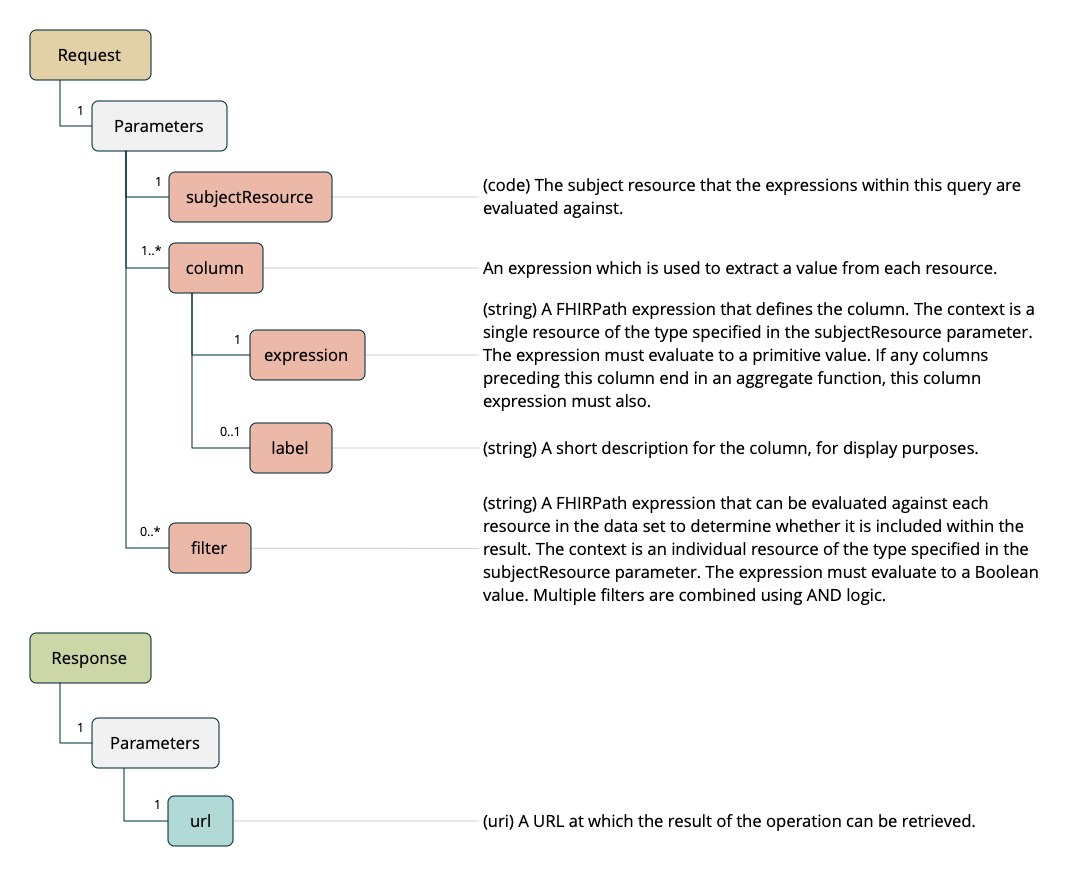
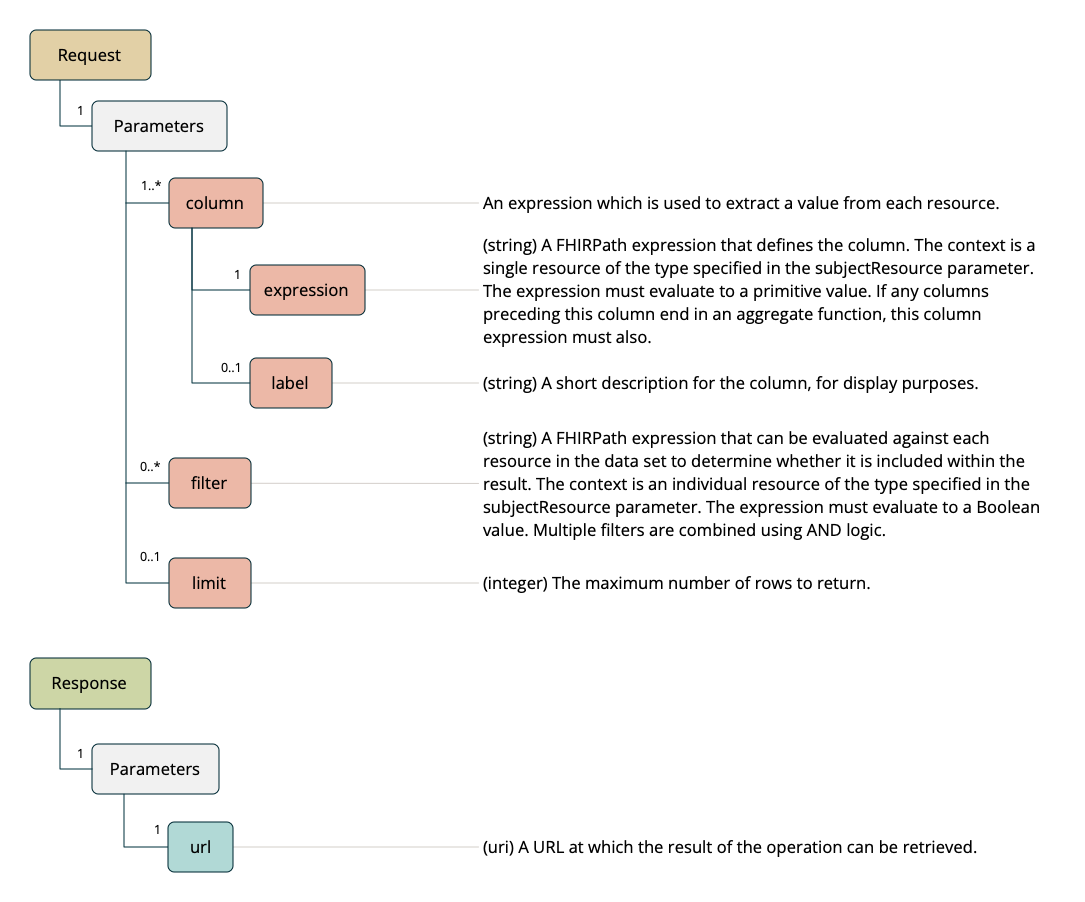
Add limit parameter to extract documentation

diff --git a/site/docs/operations/extract.md b/site/docs/operations/extract.md
@@ -50,11 +50,12 @@ resource. The following parameters are supported:
   the result. The context is a single resource of the subject resource type. 
   The expression must return a 
   [materializable type](./fhirpath/data-types.html#materializable-types). 
-- `filter [0..*]` - (string) A FHIRPath expression that can be evaluated against 
-  each resource in the data set to determine whether it is included within the 
-  result. The context is an individual resource of the subject resource type. 
-  The expression must evaluate to a Boolean value. Multiple filters are combined 
+- `filter [0..*]` - (string) A FHIRPath expression that can be evaluated against
+  each resource in the data set to determine whether it is included within the
+  result. The context is an individual resource of the subject resource type.
+  The expression must evaluate to a Boolean value. Multiple filters are combined
   using AND logic.
+- `limit [0..1]` - (integer) The maximum number of rows to return.
   
 ## Response
 
